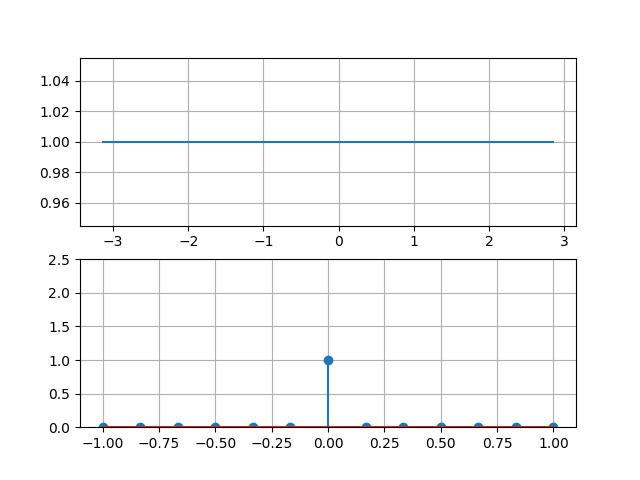
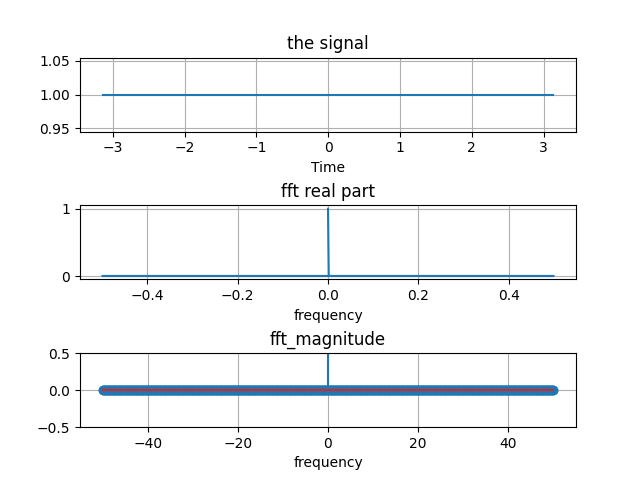
variable, plt: axis

diff --git a/fast_fourier_transform2.py b/fast_fourier_transform2.py
@@ -1,38 +1,47 @@
 import numpy as np
 import matplotlib.pyplot as plt
  
-fs = 2 
-# np.arange(a, b, c) : a부터 b까지 범위를 c간격으로 뽑는다.
-t = np.arange(-np.pi, np.pi, 1 / fs)
-print(f"len(t): {len(t)}") # 샘플의 갯수
+begintime = -np.pi
+endtime = np.pi
+samplingfreq = 100
+samplinginterval = 1 / samplingfreq
+timepoints = np.arange(begintime, endtime, samplinginterval)
+print(f"len(timepoints): {len(timepoints)}") # 샘플의 갯수
 
-# signal 정의
-signal = 1
+# create signal
+signal = timepoints - timepoints + 1
  
 # Discrete Fourier transform with Fast Fourier Transform
-fft = np.fft.fft(signal) / len(signal)  #  반환값을 '양의 영역 다음에 음의 영역 순서'로 반환한다.
-print(f"fft: {fft[:2]}")
+fft = np.fft.fft(signal) / len(timepoints) # normalize
+print(f"fft: {fft[:10]}")
  
 fft_magnitude = abs(fft)
 
+# create subplot
+figure, axis = plt.subplots(3, 1)
+plt.subplots_adjust(hspace=1)
 
 # Draw the signal graph
-plt.subplot(23,1,1)
-plt.plot(t,signal)
-plt.grid()
+axis[0].set_title("the signal")
+axis[0].set_xlabel('Time')
+axis[0].plot(timepoints,signal)
+axis[0].grid()
 
 # Draw the fft in real part
-plt.subplot(3,1,2)
-plt.plot(t,signal.real)
-plt.grid()
+axis[1].set_title("fft real part")
+axis[1].set_xlabel("frequency")
+freq = np.fft.fftfreq(timepoints.shape[-1])
+axis[1].plot(freq,fft.real)
+axis[1].grid()
 
 # Draw fft_magnitude graph using stem graph.
-plt.subplot(3,1,3)
-length = len(t)
-f = np.linspace(-(fs / 2), fs / 2, length) 
-plt.stem(f, np.fft.fftshift(fft_magnitude)) # 줄기와 잎 그림.
-plt.ylim(0,2.5)
-plt.grid()
+length = len(timepoints)
+f = np.linspace(-(samplingfreq / 2), samplingfreq / 2, length) 
+axis[2].set_title("fft_magnitude")
+axis[2].set_xlabel("frequency")
+axis[2].stem(f, np.fft.fftshift(fft_magnitude)) # 줄기와 잎 그림.
+axis[2].set_ylim(-0.5,0.5)
+axis[2].grid()
  
 plt.savefig('savefig_default2.png')
  

diff --git a/fast_fourier_transform.py b/fast_fourier_transform.py
@@ -1,7 +1,7 @@
 import numpy as np
 import matplotlib.pyplot as plt
  
-fs = 1 
+fs = 100
 t = np.arange(0, 3, 1 / fs) # from 0 to 3, each interval 1/100. len(t) = (3-0)*fs
 
 f1 = 35
@@ -16,12 +16,16 @@ fft_magnitude = abs(fft)
 
 
 # Draw signal graph
-plt.subplot(2,1,1)
+plt.subplot(3,1,1)
 plt.plot(t,signal)
 plt.grid()
 
+plt.subplot(3,1,2)
+plt.plot(t, fft.real)
+plt.grid()
+
 # Draw fft_magnitude graph using stem graph.
-plt.subplot(2,1,2)
+plt.subplot(3,1,3)
 length = len(signal)
 f = np.linspace(-(fs / 2), fs / 2, length) 
 plt.stem(f, np.fft.fftshift(fft_magnitude)) # 줄기와 잎 그림.
